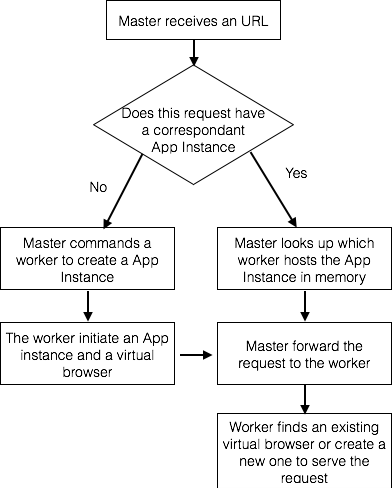
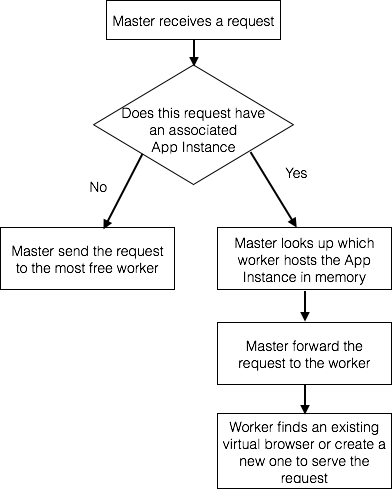
implementation

diff --git a/implementation.tex b/implementation.tex
@@ -1,82 +1,149 @@
 \section{Design and Implementation}
 \label{sec:implementation}
-%In designing the new \cb{}, 
-%we also explore solutions for developers to store session data.
+As shown in Figure~\ref{fig:cb2arch}, the server side is divided into one master node and multiple worker nodes.
+The worker node hosts virtual browsers which execute application code and create server
+side DOM structures.
+The virtual browsers in a same worker node are grouped into \appins{}s,
+we will explain \appins{} in detail in section~\ref{sec:appins}.
+All the clients' requests go through master node which dispatches the requests to 
+worker nodes.
+Master node and worker nodes run on separate processes and communicate with each other
+via TCP messages.
+The new design could be deployed to multiple servers or a single server.
+
+Like in the original design,
+the client enters a web application by request a entry point URL.
+\cb{} will allocate a virtual browser for the client and send back 
+a HTML document containing virtual browser id and id of the virtual browser's \appins{}.
+Then client engine will embed these ids in request URL when sending 
+web socket messages.
+
+
+\newarchitectureoverview{}
+
+
+
+
+\subsection{Master}
+Figure~\ref{fig:dispatch} presents the dispatch logic of the master node.
+When the master receives a request from client,
+it first tries to extract \appins{} id from the request URL.
+If the request is associated with an \appins{}, 
+the master will look up a in memory mapping table to find the worker
+who hosts the \appins{} and forward the request to it.
+If this request is not associated with an \appins{}, 
+that means this is a request for the initial HTML document,
+the master would forward this request to any worker node.
+The worker node would further analyze this request using application specific logic.
+After dispatching the request, 
+the master will relay response message from worker node to client.
+
+
+
+\requestdispatchdiagram{}
+
+
+\subsection{Worker}
+\label{sec:worker}
+When worker node receives a request from the master, 
+one of the following could happen:
+
+\begin{enumerate}
+    \item The request belongs to a \appins{} on the worker.
+    \begin{enumerate}
+        \item It is associated with a virtual browser in the \appins{}, directs this request to the virtual browser.
+        \item It is not associated with any virtual browser in the \appins{}, create a virtual browser for the request
+        and let the new virtual browser handle this request.
+    \end{enumerate}
+
+    \item The request does not belong to any \appins{} on this worker.
+    \begin{enumerate}
+        \item The request belongs to an \appins{} on another worker. 
+        Send back response to client with a redirect HTTP header field
+        containing URL to that \appins{}.
+        \item Worker asks Master for a new \appins{}, 
+        the master will choose a most free worker node to create an new \appins{},
+        then the original worker will send back a response with a redirect HTTP header field
+        containing URL to the new \appins{}.
+    \end{enumerate}
+
+    \item The request is rejected because it violates permission rules or application specific rules.
+    \begin{enumerate}
+        \item The request is associated with a virtual browser or \appins{} but 
+        the request is from a client who does not have access right to those resource.
+    \end{enumerate}    
+\end{enumerate} 
+
+
+\subsection{\appins{}}
+\label{sec:appins}
 One challenge to expand a web application to multiple processes is 
-how to store session data.
-For a single server web application, 
-the session data could be stored in memory.
-For multiple servers,
-application frameworks like J2EE~\cite{j2eedoc} suggest use persistent
-storage like database for session data.
-If the session data volume is huge or the access rate is frequent,
-reading session data from database could be a performance bottleneck.
-Caching session data locally on each server sounds like a good solution,
-but it has a warm up latency as a server needs to load session data when 
-the session data is generated elsewhere
-and it needs some sort of coherence mechanism to dealing with session data updates.
-Some methods~\cite{shachor2005maintaining} are devised to create session affinity
-to application servers so session data look up could be processed in memory.
-For \cb{}, 
-each request is associated with a virtual browser,
-session affinity is naturally maintained by the framework,
-developers could still create plain \js{} objects in the application code to 
-store session data.
+how to store \emph{session data}.
+We refer \emph{session data} as semi-permanent
+application state associated with a user session. 
+Considering a simple chat application:
+the user could join a chat room by visiting the chat room's URL,
+he could see the recent messages posted by people joined in the chat room,
+he could also update his nickname and post new messages.
+The user's nick name and recent messages are session data
+because these information need to be kept around for page rendering 
+during the user's session.
+If this chat application only runs on one process,
+we could just keep all the session data in memory and access 
+them directly.
+This method does not work
+if we want to scale out this chat application to increase the application's capacity.
+Like in figure~\ref{fig:multiappservers}, 
+one common solution is to introduce load balancer to dispatch
+requests from clients among application servers and
+use a centralized session server to serve the session data~\cite{j2eedoc,chlan2002internet,chiang2001transparent,saigo2003session}.
+The advantage of this solution is that the load balancer can use
+a simple algorithm like round robin to dispatch the requests.
+The disadvantage is that the user's requests could hit different 
+servers and the server needs to fetch session data from the session server
+for every request to get the most recent session data.
+Some methods~\cite{shachor2005maintaining} are devised to create session affinity,
+that is the requests from a session are sent to the same application 
+server so application could cache session data locally to avoid communicating with
+session server for every quest.
+For the chat application in particular, 
+the recent messages in a chat room could be modified by multiple user sessions,
+so the session affinity solutions should also make sure all the requests within
+a chat room are dispatched to the same application server.
+In \cb{}, we created \appins{} mechanism to provide an easy and high performance
+way to manage session data.
+
+\multiappservers{}
+
+% detailed explain here
+Every virtual browser needs to be created inside an \appins{}.
+When worker creates an \appins{}, 
+application could create a customized \appins{} object to hold session data.
+The \appins{} object could be directly referenced and manipulated like any plain 
+\js{} object by application code running inside virtual browsers.
+Figure~\ref{fig:appinstance} shows an example of how a chat application would
+utilize \appins{}. 
+In this application, the \appins{} object stores the state of a chat room.
+It has a property called ``Messages'' represents recent messages and a method ``PostMessage''
+to add new message.
+Each virtual browser in the \appins{} represents a user's view of the chat room.
+The application code could use ``Messages'' in the \appins{} object to draw
+a list of chat history, 
+and call the ``PostMessage'' method when the user submit a new message.
+There is no need to create session affinity or caching session data,
+the virtual browsers in the same \appins{} are guaranteed to be created on the same process.
 
 
 
-
-To distribute a web application among multiple processes, 
-a simple approach would be dispatch the user's requests to server processes randomly or in a round robin fashion.
-This approach is not feasible for \cb{} because 
-the client needs to synchronize with a particular virtual browser.
-So a dispatch mechanism is required to direct the client requests to the right process.
-Another issue arises in distributing virtual browsers among processes is 
-how the virtual browsers access shared data.
-We could store all shared data in database and let application code call database APIs to get these data.
-This approach is already supported by \cb{} and makes sense for data that needs to be persisted like user profiles. 
-We also provide a mechanism called App Instance to group multiple virtual browsers,
-the virtual browsers in the same App Instance are guaranteed to locate in the same process and they could
-share in-memory data structure directly to each other through App Instance object.
-Applications like chat room could benefit from using App Instance to boost performance :
-application could initiate an App Instance for each chat room to broadcast chat messages, 
-whenever a virtual browser posts a new chat message all other browsers get the update.
-
-
+\appinstancefig{}
 
 %We also provide a in-memory data sharing mechanism called App Instance for use cases that need better performance than database.
 %User could define 
 %For the shared data that does not need to be persisted, 
 %But for some temporary data, this could be expensive 
 
-As shown in Figure~\ref{fig:cb2arch}, the server side is divided into one master node and multiple worker nodes.
-The master node acts as a proxy which dispatches requests from user to worker nodes.
-The worker node hosts virtual browsers which execute application code.
-Like in the original design, 
 
-\newarchitectureoverview{}
-\requestdispatchdiagram{}
-\appinstancefig{}
 
-% some graphs
-
-\subsection{Master}
-The master node stores a map of App Instances to worker nodes.
-When the user sends a request, 
-the master node checks if the request could be dispatched to an existing App Instance,
-if it could the master forward the request to the worker node hosts that App Instance, 
-otherwise it would either command a worker to initialize an App Instance and forward the
-request to the worker, or reject the request.
-The logic of whether to reject a request and how to initiate an App Instance is defined by the application writer.
-The request forward process is essentially a reverse proxy server.
-
-\subsection{Worker}
-The worker node runs actual virtual browser instances.
-Upon start up the worker node fetches application configurations from master node.
-Whenever the worker node initiate an App Instance, it will register the App Instance with master node.
-The worker node directs the incoming requests to corresponding virtual browsers.
-The processing of the requests is the same as the original \cb{}.
-The difference is that the response is passed to master instead of write directly to client.
 
 
 \subsection{Remote Method Invocation}

diff --git a/paper.tex b/paper.tex
@@ -42,6 +42,7 @@
 \newcommand{\cb}{CloudBrowser}
 \newcommand{\js}{JavaScript}
 \newcommand{\nodejs}{Node.js}
+\newcommand{\appins}{App Instance}
 \newcommand{\citemain}{~\cite{mcdaniel2012cloudbrowser}}
 
 % section for figs
@@ -75,11 +76,22 @@
 \newcommand{\appinstancefig}{
     \begin{figure}[ht]
     \centering
-    \includegraphics[width=\textwidth]{figs/appInstance}
+    \includegraphics[width=0.5\textwidth]{figs/appInstance}
     \caption{Detailed view of an App Instance}
     \label{fig:appinstance}
     \end{figure}
 }
+
+
+\newcommand{\multiappservers}{
+    \begin{figure}[ht]
+    \centering
+    \includegraphics[width=0.5\textwidth]{figs/multiple_app_servers}
+    \caption{Scaling out a web application}
+    \label{fig:multiappservers}
+    \end{figure}
+}
+
 
 \title{\Large \bf Multiprocessor \cb}
 

diff --git a/README.md b/README.md
@@ -9,3 +9,8 @@ For code syntax highlighting
 ```sh
 sudo easy_install Pygments
 ```
+
+
+# benchmark dependency
+
+node 0.10.31
